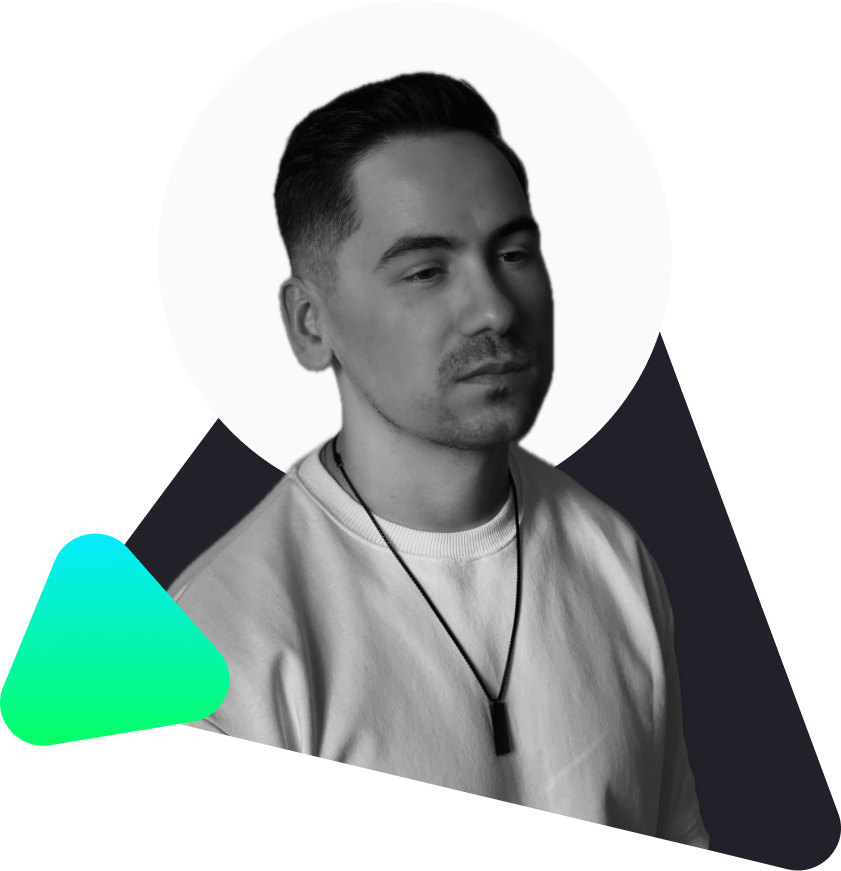
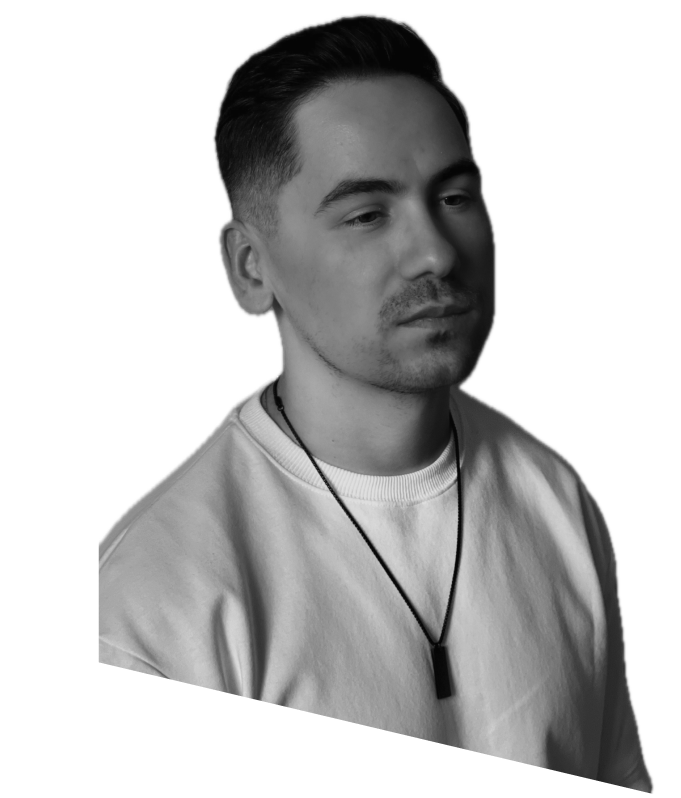
chore(home): optimize images and shadows

diff --git a/resources/scss/themes/default/sections/hero.scss b/resources/scss/themes/default/sections/hero.scss
@@ -9,7 +9,25 @@
     min-height: calc(100vh - ($navbar-padding-y + $nav-link-padding-y + 1rem));
 
     &__person {
-        filter: drop-shadow(0px 22px 26px rgba(0, 0, 0, 0.30));
-        max-height: 70vh;
+        & #shadow-root {
+            filter: blur(15px);
+            top: 20px;
+            opacity: .4;
+            & #shadow-big-triangle {
+                fill: #000;
+            }
+            & #shadow-small-triangle {
+                fill: #000;
+            }
+            & #shadow-ellipse {
+                fill: #000;
+            }
+        }
+        & svg {
+            display: block;
+            width: 100%;
+            height: 100%;
+            max-height: 70vh;
+        }
     }
 }

diff --git a/resources/views/themes/default/pages/home/hero.blade.php b/resources/views/themes/default/pages/home/hero.blade.php
@@ -2,10 +2,26 @@
     <div class="container-fluid">
         <div class="row g-5">
             <div class="col-sm-12 col-md-12 col-lg-5 d-flex align-items-center justify-content-center">
-                <div data-animation="slide-up">
-                   <img src="{{ asset('images/hero/person.png') }}"
-                        class="d-block img-fluid mx-auto hero__person"
-                        alt="Ilya Shabanov - Software Engineer">
+                <div data-animation="slide-up" class="hero__person position-relative">
+                    <svg width="841" height="870" viewBox="0 0 841 870" fill="none" xmlns="http://www.w3.org/2000/svg" class="position-relative z-2">
+                        <g id="Homepage/Person">
+                            <path id="big-triangle" d="M84.2043 697.622C54.4345 690.379 41.6262 655.791 59.6943 631.435L486.472 56.1205C506.83 28.6782 550.106 34.6926 561.924 66.6066L838.326 813.007C850.144 844.921 820.925 876.87 787.384 868.709L84.2043 697.622Z" fill="#22212A"/>
+                            <ellipse id="ellipse" cx="414.82" cy="253.571" rx="257.055" ry="253.571" fill="#FAFAFA"/>
+                            <image id="person-image" x="55" y="56" href="{{ asset('images/hero/person.png') }}" width="681" height="798"/>
+                            <path id="small-triangle" d="M54.9035 560.03C67.096 530.269 106.857 523.717 128.193 547.953L218.599 650.643C240.921 675.998 226.461 715.68 192.882 721.214L50.8156 744.624C17.2369 750.157 -9.51346 717.266 3.24247 686.13L54.9035 560.03Z" fill="url(#paint0_linear_1026_963)" style=""/>
+                        </g>
+                        <defs>
+                            <linearGradient id="paint0_linear_1026_963" x1="114.658" y1="533.145" x2="114.658" y2="745.237" gradientUnits="userSpaceOnUse">
+                                <stop stop-color="#05EAFF"/>
+                                <stop offset="1" stop-color="#05FF64"/>
+                            </linearGradient>
+                        </defs>
+                    </svg>
+                    <svg width="841" height="870" viewBox="0 0 841 870" fill="none" xmlns="http://www.w3.org/2000/svg" id="shadow-root" class="position-absolute z-1">
+                        <path id="shadow-big-triangle" d="M84.2043 697.622C54.4345 690.379 41.6262 655.791 59.6943 631.435L486.472 56.1205C506.83 28.6782 550.106 34.6926 561.924 66.6066L838.326 813.007C850.144 844.921 820.925 876.87 787.384 868.709L84.2043 697.622Z" fill="#22212A"/>
+                        <ellipse id="shadow-ellipse" cx="414.82" cy="253.571" rx="257.055" ry="253.571" fill="#FAFAFA"/>
+                        <path id="shadow-small-triangle" d="M54.9035 560.03C67.096 530.269 106.857 523.717 128.193 547.953L218.599 650.643C240.921 675.998 226.461 715.68 192.882 721.214L50.8156 744.624C17.2369 750.157 -9.51346 717.266 3.24247 686.13L54.9035 560.03Z" fill="#007F86"/>
+                    </svg>
                 </div>
             </div>
             <div class="col-sm-12 col-md-12 col-lg-7 d-flex justify-content-start align-items-center">
